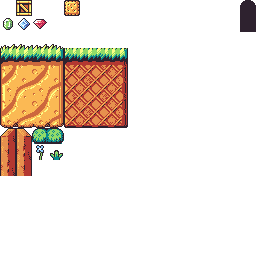
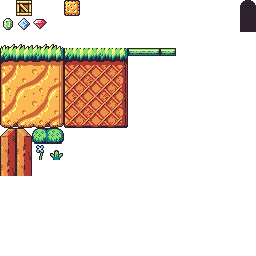
Add toothpaste & more graphics

Changed region(s): [[0.5, 0.1875, 0.6875, 0.2188]]

diff --git a/src/entity/mod.rs b/src/entity/mod.rs
@@ -2,7 +2,7 @@ use crate::vec2::{Vec2, vec2};
 use crate::Framebuffer;
 use crate::data::DataDef;
 
-//mod player;
+mod player;
 
 pub struct Entity {
     pub data: EntityData,
@@ -10,7 +10,7 @@ pub struct Entity {
 }
 
 pub struct EntitySet {
-    pub inner: [Entity; 64],
+    pub inner: [Entity; 32],
 }
 
 pub struct EntityEntry {
@@ -42,8 +42,7 @@ pub struct EntityData {
 #[repr(u8)]
 pub enum EntityKind {
     None,
-    Player,
-    //Player(player::Player),
+    Player(player::Player),
     Tomato,
     Bee,
     Snail,
@@ -72,18 +71,14 @@ impl EntityKind {
     pub fn init(&mut self, data: &mut EntityData) {
         match self {
             EntityKind::None => {},
-            /*
             EntityKind::Player(p) => {
                 p.init();
                 data.vel = vec2(0,0);
                 data.radius = vec2(0x400, 0xE00);
                 data.sprite.source = crate::data::TOOTHPASTE;
-                data.sprite.len = 1;
-                data.sprite.tiles[0] = SpriteTile {
-                    offset: vec2(-16, -16),
-                    frame: 0
-                }
-            },*/
+                data.sprite.offset = vec2(-16, -16);
+                data.sprite.frame = 0;
+            },
             EntityKind::Tomato => {
                 data.radius = vec2(0x400, 0x400);
                 data.hflip = true;
@@ -108,7 +103,7 @@ impl EntityKind {
             }
             EntityState::Alive => match self {
                 EntityKind::None => {},
-                //EntityKind::Player(p) => p.run(data),
+                EntityKind::Player(p) => p.run(data),
                 EntityKind::Tomato => {
                     if data.hflip {
                         data.vel.x = -0x60;
@@ -187,12 +182,12 @@ impl EntityData {
         let spr = &self.sprite;
         let data = spr.source.data();
         let pal = spr.source.pal();
-        for x in -self.radius.x/256..=self.radius.x/256 {
+        /*for x in -self.radius.x/256..=self.radius.x/256 {
             for y in -self.radius.y/256..=self.radius.y/256 {
                 let mut pos = self.visual_pos() + vec2(x as i32, y as i32) - camera;
                 fb.pixel(pos).map(|c| *c = *c & 0x7FFFFFFF);
             }
-        }
+        }*/
         for mut x in 0..32 {
             for y in 0..32 {
                 let mut pos = self.visual_pos() + vec2(x as i32, y as i32) - camera + spr.offset;
@@ -224,7 +219,7 @@ impl EntityData {
             };
             if axis == 1 && last_on_ground { sensor_pos += 256; }
             for i in -1..=1 {
-                let p = axis * 3 + i as usize + 1;
+                let p = axis * 3 + (i+1) as usize;
                 let mut offset = self.radius * i;
                 offset[axis] = sensor_pos;
                 self.sensor_pos[p] = ((next_pos + offset) & !0xFFF) + vec2(0x800, 0x800);

diff --git a/src/foreground.rs b/src/foreground.rs
@@ -29,14 +29,34 @@ impl Foreground {
     pub fn mut_ptr_at(&mut self, pos: Vec2<i32>) -> *mut u8 {
         unsafe { self.blocks.as_mut_ptr().add(self.block_at(pos)) }
     }
+    pub fn render_old(&self, offset: Vec2<i32>, fb: &mut Framebuffer) {
+        let block_pos = offset >> 4;
+        let inner = offset & 0xF;
+        for y in 0..=Framebuffer::size().y / 16 {
+            for x in 0..=Framebuffer::size().x / 16 {
+                let pos = block_pos + vec2(x,y);
+                let block = self.blocks[self.block_at(pos)] as usize;
+                if block > 0 {
+                    let gfx = &data::BLOCKS.data()[block*256..block*256+256];
+                    for (i,px) in gfx.iter().enumerate() {
+                        if *px > 0 {
+                            let pos = vec2((x << 4) + (i as i32 & 0xF), (y << 4) + (i as i32 >> 4)) - inner;
+                            let c = fb.pixel(pos).unwrap();
+                            *c = data::BLOCKS.pal()[*px as usize];
+                        }
+                    }
+                }
+            }
+        }
+    }
     pub fn render(&self, offset: Vec2<i32>, fb: &mut Framebuffer) {
         for (pos,i) in fb.pixels() {
             //if pos.y == 0 { continue; }
             let pos = pos + offset;
-            if !self.in_bounds(pos >> 4) {
+            /*if !self.in_bounds(pos >> 4) {
                 *i = 0x00000000;
                 continue;
-            }
+            }*/
             let block = self.blocks[self.block_at(pos >> 4)] as usize;
             let block_top = self.blocks[self.block_at((pos >> 4) + vec2(0,1))] as usize;
             let block_top = if block_top >= 0x30 && block_top < 0x38 {
@@ -86,7 +106,9 @@ pub fn collision(b: u8) -> Collision {
         0x40 ..= 0x43 => Solid,
         0x50 ..= 0x53 => Solid,
         0x60 ..= 0x63 => Solid,
+        0x70 ..= 0x73 => Solid,
         0x34 ..= 0x37 => Semisolid,
+        0x38 ..= 0x3A => Semisolid,
         _ => None
     }
 }

diff --git a/src/state/level.rs b/src/state/level.rs
@@ -39,10 +39,8 @@ impl LevelState {
         self.entities.init_with(&data::ENTITY_LIST[l..r]);
         //self.particles.init();
         let e = &mut self.entities.inner;
-        /*
-        e[63].kind.init_kind(1);
-        e[63].kind.init(&mut e[63].data);
-        e[63].data.pos = vec2(0x2000, 0xD000);*/
+        e[31].init(1);
+        e[31].data.pos = vec2(0x4000, 0x4000);
 
         self.coins = 0;
         self.health = 3;
@@ -53,14 +51,23 @@ impl LevelState {
             self.init();
         }
 
-        if b.left() { self.camera.x -= 4; }
-        if b.right() { self.camera.x += 4; }
-        if b.up() { self.camera.y -= 4; }
-        if b.down() { self.camera.y += 4; }
+        //if b.left() { self.camera.x -= 4; }
+        //if b.right() { self.camera.x += 4; }
+        //if b.up() { self.camera.y -= 4; }
+        //if b.down() { self.camera.y += 4; }
         //self.particles.process();
         self.entities.process();
 
-        //self.camera = self.entities.inner[63].data.visual_pos() - Framebuffer::size()/2;
+        let followed_slot = 31;
+
+        let e = &self.entities.inner[followed_slot];
+        let pivot = e.data.visual_pos() - Framebuffer::size()/2;
+
+
+        self.camera += (pivot - self.camera).zip(
+            e.data.vel,
+            |c,v| c.signum() * (c.abs() - 4).max(0)
+        );
         self.camera.x = self.camera.x.max(0).min(self.fg.width()  as i32 * 16 - Framebuffer::size().x);
         self.camera.y = self.camera.y.max(6).min(self.fg.height() as i32 * 16 - Framebuffer::size().y - 6);
 

diff --git a/src/lib.rs b/src/lib.rs
@@ -15,11 +15,14 @@ mod background;
 use crate::framebuffer::Framebuffer;
 use crate::state::GameState;
 
+
 #[panic_handler]
 unsafe fn handle_panic(_: &core::panic::PanicInfo) -> ! {
     // Where we're going, we don't need safety.
     core::hint::unreachable_unchecked()
 }
+
+
 unsafe fn copy_fwd(src: *const u8, dest: *mut u8, n: usize) {
     let mut i = 0;
     while i < n {
